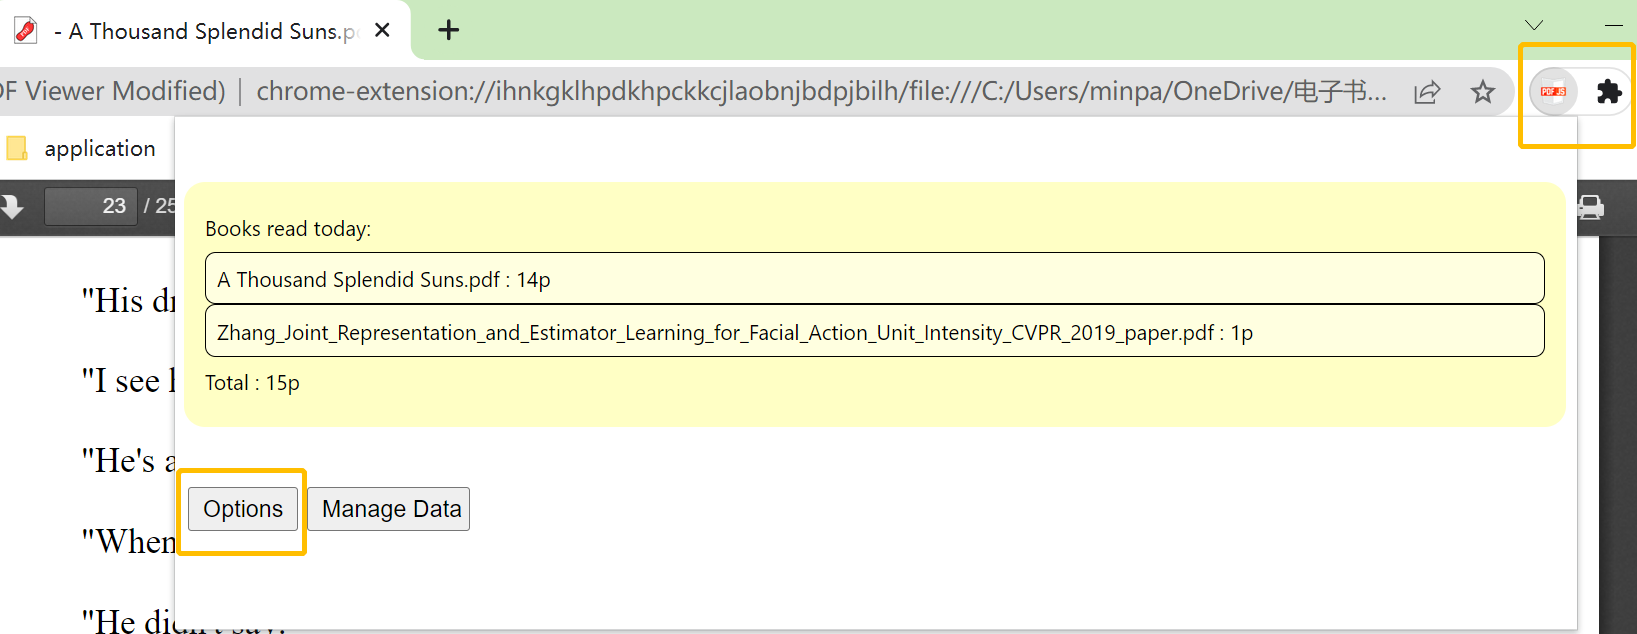
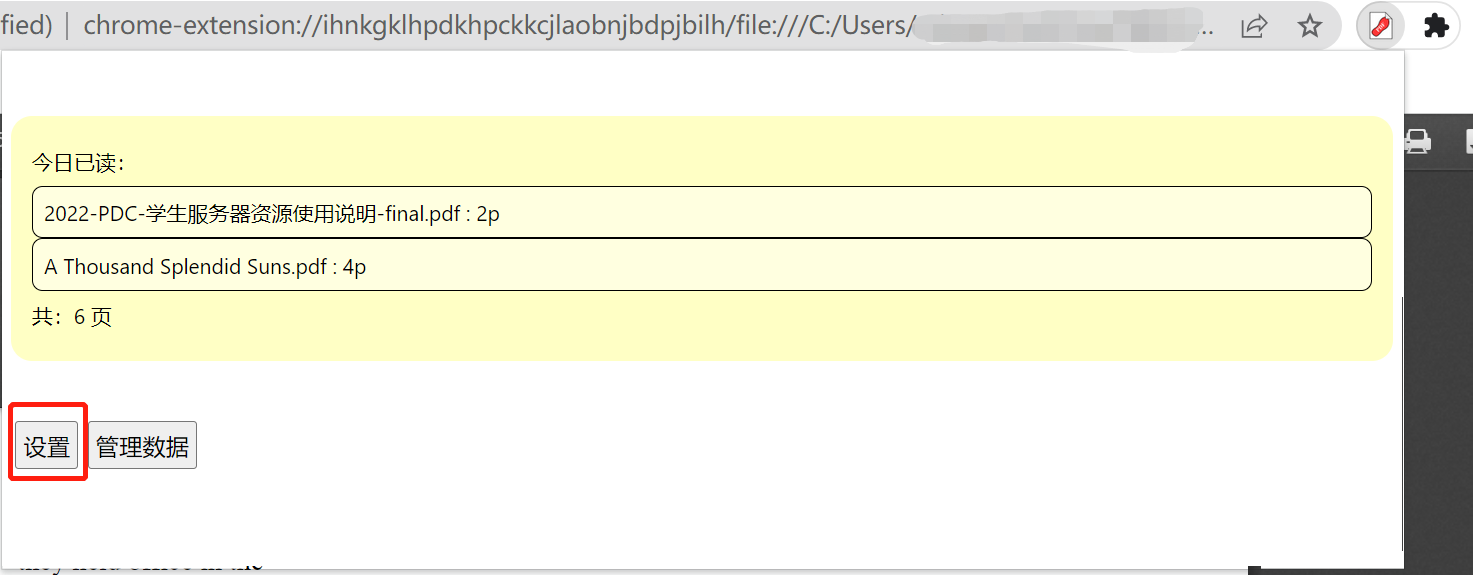
docs:README

diff --git a/README.md b/README.md
@@ -1,69 +1,318 @@
-# ReadingMap
-A chrome side-bar extension to visualize reading progress.
+# ReadingMap使用手册
 
-### 写在前面 Before starting
+## 摘要：什么是ReadingMap？
+ReadingMap是一个拥有**多功能进度条**的pdf浏览插件。如下图所示：
+![](overview.png)
+图中左侧白绿交加的竖条，就是我们所说的“多功能进度条”了。
 
-该插件目前处于删档内测阶段，所有数据均可能意外丢失或在版本更新后失效
+#### 这根“多功能进度条”有哪些功能呢？
 
-Our extension is now **under test and development**, so all data you saved may **lose** accidentally or turn **invalid**  after the update. 
+1. ##### 可视化阅读进度。
+   
+   在进度条中，白色区域代表这个文档中你还没有读过的页面；浅绿色的区域代表你读过一两遍的页面；深绿色的区域代表你反复翻阅过的页面。
+   （注：用什么颜色表示读的次数，以及读几次颜色才会涂到最深，你都可以按喜好调节。详见[具体上色操作](#changeColorbar)）
+   你可以在期末复习的时候，根据课程幻灯片上的进度条颜色，回忆有哪些页面是自己因为上课走神从来没有看过的；
+   你可以在翻书的时候从容向前跳转，而不会因为忘记“我刚刚看到哪儿了来着？”而漏掉中间的知识点；
+   你还可以通过围观大神的进度条，看看有哪些页面是大神反复翻阅琢磨过的，那里一定有课程的重点难点；
+   你也可以借助“我一定要把整根进度条涂绿！”的执念，鼓励自己好好复习……
+   
+2. ##### 添加书签与文字注记。
+   
+   在多功能进度条中，有一个黄色的圆点。这是一个“书签”——你可以根据你自己的需要，在任意页面上标记书签。（如果你觉得这个黄色圆点不好看，你也可以将它替换为其他图形——比如说卡通人物头像。详见[换mark操作](#changeMark)。）
+   你也可以在每一页上添加一段文字注记。你可以通过切换注记显示模式，在进度条上显示所有注记，直观地看到“你在什么地方评论了什么”。
+   
+3. ##### 精准跳转。
+   
+   你可以点击多功能进度条的任意位置（例如一个书签，或者一块深绿色的重点区域），直接跳转到对应的页面，实现精准空降。
 
+#### 围绕着这根进度条，我们还实现了一些其他功能：
 
+1. ##### 阅读量统计
+   
+   ReadingMap收集了这么多数据，自然也可以完成一些统计工作。例如说，你可以在统计页面查看自己每天读了多少页pdf：
+   
+   <div align="center">
+       <img src="./pics/statistics.png" width="80%">
+   </div>你可以从这些数据中回顾你这一周都干了些什么，~~并且用截图发朋友圈~~。
+   
+2. ##### 数据的导入、导出、合并
+   
+   ReadingMap是一款浏览器插件，你的阅读数据存储在你浏览器的本地数据库里。你可以通过导出功能另存你的阅读数据，或是用合并功能合并不同设备上的阅读记录。如果你打算深度使用ReadingMap，强烈建议你仔细阅读使用手册中的[数据管理](#dataManagement)一节。
+   （此外，ReadingMap导出的.rmrf格式文件中是一个明文存储的JSON对象，如果你正在学习入门python，“分析自己的ReadingMap数据”也许会是一个不错的练手项目。）
 
-### 使用说明
+**另外，在详细介绍如何使用ReadingMap之前，我们想先自吹自擂几个ReadingMap的优点：**
 
-1. 下载压缩包并解压
+1. ##### 轻量、简洁，不打扰
+   
+   轻量：ReadingMap依托于浏览器的渲染功能，全部功能内容只有几MB（TODO：填入真实值）。在你下载的压缩包里，主要占空间的其实只有这篇图文并茂的使用手册。
+   简洁：ReadingMap只占用了屏幕左侧一根多功能进度条的空间来展示信息。
+   不打扰：ReadingMap里既没有视频推送流，也没有社区分享圈，更没有贴片广告，争取不对你的学习产生打扰。
+   
+2. ##### 开源、免费、透明
+   
+   开源：我们的代码是开源的。
+   免费：我们的代码是免费的。
+   透明：你所有的数据都明文存储在本地，你可以随时清除，或是自行导出分析。
+   
+3. ##### 网络资源也能用
+   
+   除了你已经下载下来的本地pdf可以用ReadingMap追踪阅读数据，你在网上（例如说arXiv，或者是教学网）上预览的pdf也能用！
+   
+   
+
+如果你读完这段介绍对使用ReadingMap感兴趣，你可以接着阅读详细的[安装指南](#howtoEquip)与[使用说明](#howtoUse)：
+
+<div id="howtoEquip"></div>
+
+## 环境与安装指南
+
+经我们测试，ReadingMap能在**Google Chrome**与**Microsoft Edge**环境中运行。它在其他基于Chromium内核的浏览器应该也能相应地适配。
+
+因为一些技术原因，ReadingMap尚未上线Chrome应用商城/Edge应用商城。你可以通过下载源代码的方式安装这个插件。
+
+### 下载
+我们的项目主页是https://github.com/HYLZ-2019/ReadingMap 。如果你会使用git，你可以直接把整个仓库clone下来。如果你不会，你可以在主页上点击“Code”——点击“Download ZIP”，下载压缩包并解压：
 
    ![Image text](./pics/ReadmeS1.png)
 
-2. 打开Chrome浏览器扩展
+### 安装
+#### Chrome
+如果你使用的浏览器是Google Chrome，安装步骤包括：
+1. 打开Chrome浏览器扩展。
 
-   > 方法：
+   > 有两种方法：
    >
    > * 点击“扩展”，选择“管理扩展程序”
    > * 点击“菜单”，选择“更多工具”，选择“扩展程序”
 
    ![Image text](./pics/ReadmeS2.png)
 
-3. 打开开发者模式
-
-   加载已解压的扩展程序（选择Step1解压的文件夹）
-
-   ![Image text](./pics/ReadmeS3-2.png)
-
-4. 打开新扩展（右下角）
-
-5. 把PDF文件拖到Chrome里，就可以开始使用
-
+2. 打开开发者模式。
+   ![](pics/install2.png)
+3. 点击“加载已解压的扩展程序”，选择你下载后解压到的文件夹。
+    ![](pics/install3.png)
    
+4. 打开新扩展：
+   ![](pics/install4.png)
+    (1) 这个界面显示“错误”是正常现象，不影响使用。
+    (2) 再点击一次可以暂停使用ReadingMap，这不会影响你已有的数据。但是**点击“移除”进行卸载会不可逆地删除浏览器中存储的所有ReadingMap数据，如果你想卸载，请务必先用导出功能保存你想留下的数据！**
+5. 在浏览器中正常地打开pdf文件，就可以使用ReadingMap的功能了。
 
-### How to use 
+#### Edge
+如果你使用的浏览器是Microsoft Edge，安装步骤包括：
+1. 打开Edge浏览器扩展。
 
-1. Download the zip and uncompress it
-
-   ![Image text](./pics/ReadmeS1.png)
-
-2. Open the Extension Management page by navigating to `chrome://extensions`.
-
-   > You can:
+   > 有两种方法：
    >
-   > * Alternatively, open this page by clicking on the Extensions menu button and selecting **Manage Extensions** at the bottom of the menu.
-   > * Alternatively, open this page by clicking on the Chrome menu, hovering over **More Tools** then selecting **Extensions**
+   > * 点击“扩展”，选择“管理扩展”
+   > * 点击“菜单”，选择“更多工具”，选择“扩展程序”
 
-   ![Image text](./pics/ReadmeS2.png)
-
-3. Enable Developer Mode by clicking the toggle switch next to **Developer mode**.
-
-   Click the **Load unpacked** button and select the extension directory.
-
-   ![Image text](./pics/ReadmeS3.png)
-
-4. Turn on the new Extension（bottom right corner）
-
-5. Drag the PDF you want to read into Chrome and now you can use it !!!
-
+   ![](pics/install_1_edge.png)
+2. 打开开发者模式。
+   ![](pics/install_2_edge.png)
+3. 点击“加载已解压的扩展程序”，选择你下载后解压到的文件夹。
+   ![](pics/install_3_edge.png)
    
+4. 打开新扩展：
+   ![](pics/install_4_edge.png)
+    (1) 这个界面显示“错误”是正常现象，不影响使用。
+    (2) 再点击一次可以暂停使用ReadingMap，这不会影响你已有的数据。但是**点击“删除”进行卸载会不可逆地删除浏览器中存储的所有ReadingMap数据，如果你想卸载，请务必先用导出功能保存你想留下的数据！**
+5. 在浏览器中正常地打开pdf文件，就可以使用ReadingMap的功能了。
 
-   
+### 使用
+在浏览器中正常地打开pdf文件，就可以使用ReadingMap的功能了。
 
-   
 
+<div id="howtoUse"></div>
+
+## 使用说明
+
+### 基本功能
+
+不需要任何多余操作，在浏览器中正常地打开pdf文件即可。
+
+如果你想快捷地使用阅读日报等功能，可以将ReadingMap固定在你的浏览器工具栏里：
+
+<div align="center">
+    <img src="./pics/Usages2options.png" width="50%">
+</div>
+
+
+固定后，你就可以点击ReadingMap的图标打开弹窗界面。弹窗界面中包括阅读日报（你今天已经读了哪些pdf，分别新读了几页）、通往设置页面的链接，和通往数据管理统计页面的链接。
+
+<div align="center">
+    <img src="./pics/Usages1.png" width="60%">
+</div>
+
+
+<div id="changeColorbar"></div>
+
+
+##### 书签显示
+
+* 当你看到想标注一下的地方，点击左上角`五角星`按钮即可加书签；再次点击可以取消书签。
+
+  <div align="center">
+      <img src="./pics/Usages4mark.png" width="50%">
+  </div>
+
+
+##### 添加注记
+
+* 有想要记下的只字片语，请点击左上角`对话框`按钮，在输入框里删改注记。（修改文字后，要在框外任意点击一下，才会保存。）
+
+  <div align="center">
+      <img src="./pics/Usages5notes.png" width="50%">
+  </div>
+
+##### 显示/关闭摘要并在注记中搜索关键词
+
+* ReadingMap提供了三种在多功能进度条上显示摘要的模式：（1）显示所有的摘要；（2）只显示有书签的页面上的摘要；（3）不显示摘要。你可以点击模式切换键选择你想要的显示模式。
+
+* 同时我们支持搜索注记中的关键词。点击“检索”，所有注记中包含搜索关键词的页面的摘要都会显示出来。
+
+  <div align="center">
+      <img src="./pics/Usages6modes.png" width="50%">
+  </div>
+
+<div id="changeMarker"></div>
+
+##### 跳转
+
+你可以点击多功能进度条的任意位置（例如一个书签，或者一块深绿色的重点区域），直接跳转到对应的页面，实现精准空降。
+
+
+<div id="dataManagement"></div>
+
+### 自定义设置
+你可以通过多种方式进入设置页面：
+1. 如果你把ReadingMap固定到了浏览器工具栏上，你可以直接点击ReadingMap图标——点击“设置”，进入设置页面。
+2. 如果你没有固定，你可以点击“扩展”——“ReadingMap”打开Readingmap弹窗，然后点击“设置”进入设置页面。
+
+<div align="center">
+    <img src="./pics/enterSettings.png" width="50%">
+</div>
+
+设置页面中的可选项包括：
+#### 自定义颜色
+在阅读一段时间后，ReadingMap的多功能进度条就会显示颜色。默认的设置是随着阅读次数增加，颜色由白变绿。如果你不喜欢默认颜色，你可以自定义颜色配置：
+
+  <div align="center">
+      <img src="./pics/Usages3options.png" width="50%">
+  </div>
+
+
+* 你可以更改“颜色数目”来调节总共用几种颜色表示阅读次数。例如说，如果你将颜色数目设为3，那么设置页面里会出现四个色块，它们由左到右分别代表读了0次、1次、2次、>=3次的页面的颜色。
+* 你可以点击任意一个色块，改变它的颜色。
+* 在选定两端颜色后，你可以再次修改颜色数目，ReadingMap会自动线性插值填充中间的颜色。
+
+修改完毕后，点击`Save Settings`保存，刷新一下即可。
+
+* 奇怪但自由的色阶定义$\downarrow$
+
+  <div align="center">
+      <img src="./pics/Usages_color.png" width="50%">
+  </div>
+
+#### 自定义阅读时间阈值
+ReadingMap对于“读了一页一次”的判定方法是这样的：如果你在翻页之前，在第X页停留了超过T秒，就记为你读了第X页一次。
+
+你可以通过修改“时间”来改变T秒这个阈值。
+
+
+#### 更换书签标记
+
+* 打开压缩包解压后的文件夹
+
+* 按以下路径找到`小黄点-defaultMarker`：ReadingMap/rmImages/markers/defaultMarker.png
+
+* 在该文件夹中保存待替换的图象，例`Marker.png`
+
+* 按以下路径找到对应css文件：ReadingMap/content/web/readingMap.css
+
+* 将`.rmMarker`对应位置改为要替换的图象文件名
+
+  <div align="center">
+      <img src="./pics/ChangeMarkerinCSS.png" width="50%">
+  </div>
+  
+  
+
+  可调整height/left控制标记位置大小，效果如下：
+
+  <div align="center">
+      <img src="./pics/ChangeMarker.png" width="50%">
+  </div>
+
+
+
+### 数据管理
+
+* 点击`管理数据`即可进入数据管理界面。
+<div align="center">
+	<img src="./pics/statistics.png" width="80%">
+</div>
+<div align="center">
+	<img src="./pics/datamanager.png" width="80%">
+</div>
+
+在数据管理器中，你可以操作两种数据：浏览器数据（阅读产生的新鲜数据，通过浏览器的localStorage API储存）与本地数据（先前保存的.rmrf格式文件）。你可以导出浏览器数据、导入本地数据、进行数据的合并或者查看选中数据的阅读报告。
+
+从上文“数据管理器”页面，通过`查看浏览器数据`、`查看本地数据`可以进入浏览器数据和本地数据视图。
+
+#### 关于浏览器存储限制
+ReadingMap在浏览器中存储数据依靠浏览器本身提供的localStorage API。这个API只提供5MB的存储空间，超出以后，新数据将无法记录。因此，如果你发现自己的空间占用率已经比较高（可以在“浏览器数据视图”中查看已用空间），请尽快进行导出与清理，以免影响使用。
+作为一个定性的参考，开发者之一L同学在45天中用ReadingMap追踪自己阅读的每一个pdf文件，目前只占用了0.3MB左右的空间。也就是说，你可以持续使用ReadingMap两年多而不清理。在未来的版本中，我们会考虑引入一些压缩手段让这5MB空间更耐用，敬请期待。
+
+#### 阅读量统计
+
+数据管理界面的首页会根据当前浏览器中数据生成阅读报告。在浏览器数据视图、本地数据视图中，你也可以生成阅读报告图表。
+
+在每日阅读量的统计图表中，你可以取消“堆叠”、“柱状图”，直观地看出每天读了多少什么内容：
+![](pics/barchart.png)
+
+在总阅读量的统计图表中，你可以点击“折线图”，直观地看出每本书阅读进度随时间的变化。
+![](pics/linechart.png)
+#### 浏览器数据
+在浏览器数据视图中，你可以勾选部分pdf文档，然后：
+* 点击“导出选中数据并下载”，下载有关数据；
+  * 你会得到一个.rmrf格式的文件。
+* 点击“从浏览器中删除选中的数据”，将它们删除；
+  * 浏览器中有关这些pdf具体页码的数据（包括每一页读了几次、上面的注记等）都会被删除，建议先导出备份再清理。不过，阅读历史中关于它们的信息（例如你哪天读了它10页）不会被删除。
+* 点击“查看选中数据报告”，生成类似主页的历史图表。
+
+<div align="center">
+	<img src="./pics/1.png" width="80%">
+</div>
+
+#### 本地数据
+
+在本地数据视图中，你需要先点击“选择文件”，选择你要打开的.rmrf格式文件。
+
+随后，你可以选择这个文件中你需要的条目：
+
+* 点击“导入选中数据并与浏览器数据合并”，将这些数据导入浏览器；
+* 点击“查看选中数据报告”，生成类似主页的历史图表。
+
+需要注意的是，“合并”可能需要处理冲突，详见[处理文件冲突](#处理文件冲突)。
+
+#### 合并.rmrf文件
+
+ReadingMap还提供了合并.rmrf文件的功能。在合并页面中，你可以上传两个.rmrf文件。在处理冲突后，你可以下载合并得到的新.rmrf文件。冲突处理详见[处理文件冲突](#处理文件冲突)。
+
+#### 处理文件冲突
+
+“冲突”指的是两个.rmrf同时包含关于某份pdf的数据的情况。例如说，如果“backup.rmrf”中记载`ICS.pdf`的第1页读了3次，而“new_backup.rmrf”中记载`ICS.pdf`的第1页读了5次，就会产生冲突。
+
+ReadingMap提供了两种解决冲突的合并模式：
+
+1. 覆盖（Overwrite）：如果要用覆盖模式合并两条pdf记录，ReadingMap会选择导出时间比较新的那条记录，然后采用它的数据。例如说，如果“new_backup.rmrf”的导出时间比“backup.rmrf”晚，那么ReadingMap会在生成的合并文件里记载“`ICS.pdf`的第1页读了5次”。覆盖模式适合用来处理重复导出导致的冲突。
+2. 加和（Add）：如果要用加和模式合并两条pdf记录，ReadingMap会将两条记录的数据相加。在上面的这个例子里，ReadingMap会在生成的合并文件里记载“`ICS.pdf`的第1页读了8次”。加和模式适合用来处理在不同设备上同时阅读、最后导出合并时产生的冲突。
+
+在检测到冲突后，ReadingMap会给出一个表格，罗列所有的冲突情况。你可以点击“合并模式”列中的图标，改变处理每个冲突时想使用的合并模式。（合并模式的默认值由ReadingMap智能推荐，一般来说你不需要手动修改。）
+
+  <div align="center">
+  	<img src="./pics/conflict.png" width="90%">
+  </div>
+
+拉到底部，点击“确认合并”即可完成合并。
